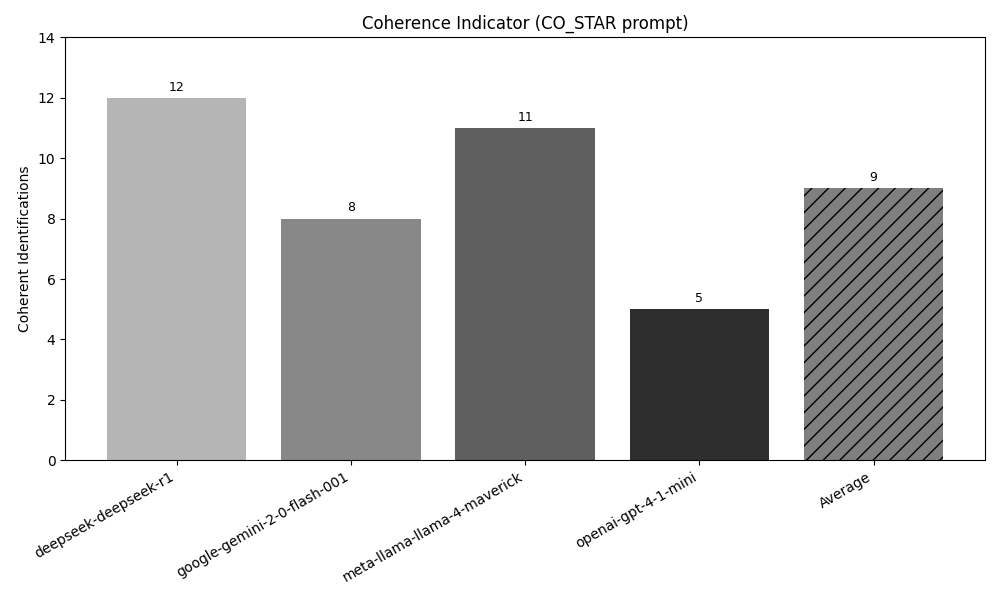
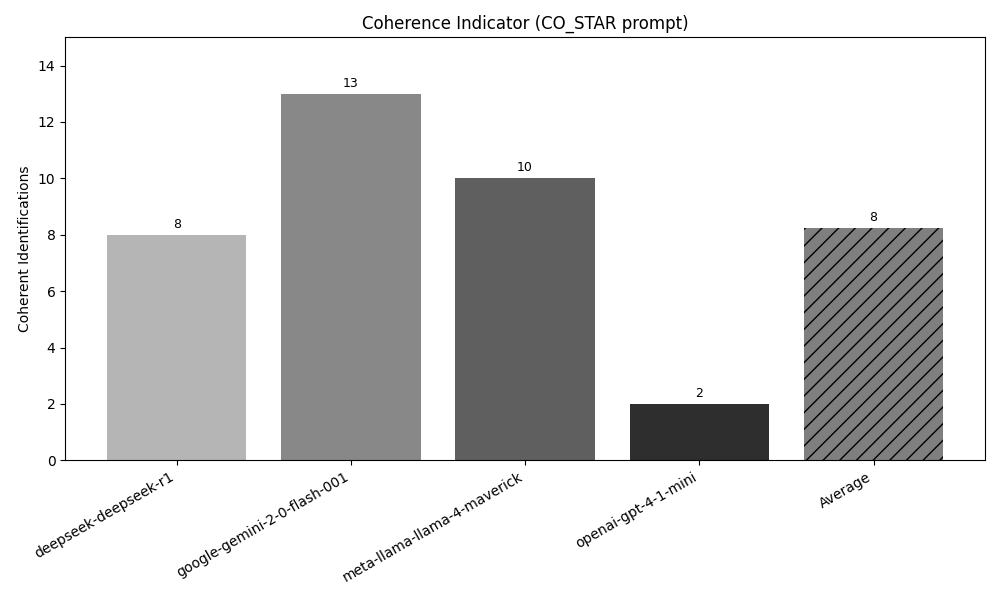
[results] co_star prompt (second test) validation + plots

diff --git a/whodunnit-llm/results_validation.py b/whodunnit-llm/results_validation.py
@@ -92,6 +92,13 @@ open_ai_guidelines_result_folders = [
     f'{RESULTS_PATH}openai-gpt-4-1-mini_open_ai_guidelines_format/',
 ]
 
+co_star_prompt_source_retrieval = [
+    f'{RESULTS_PATH}deepseek-deepseek-r1_co_star_prompt_source_retrieval/',
+    f'{RESULTS_PATH}google-gemini-2-0-flash-001_co_star_prompt_source_retrieval/',
+    f'{RESULTS_PATH}meta-llama-llama-4-maverick_co_star_prompt_source_retrieval/',
+    f'{RESULTS_PATH}openai-gpt-4-1-mini_co_star_prompt_source_retrieval/'
+]
+
 
 def validation(folder: str, plot_title: str, prompt_type: str):
     total_perpetrators = sum([len(', '.join(PERPETRATORS[k]).split(', ')) for k in PERPETRATORS.keys()])
@@ -101,7 +108,7 @@ def validation(folder: str, plot_title: str, prompt_type: str):
     for model_results in folder:
         total_perpetrators_identified = 0
 
-        model = re.match(pattern = r'.+\/(.+)_(co_star_prompt\/|open_ai_guidelines_format\/)', string = str(model_results)).group(1)
+        model = re.match(pattern = r'.+\/(.+)_(co_star_prompt\/|open_ai_guidelines_format\/|co_star_prompt_source_retrieval\/)', string = str(model_results)).group(1)
 
         for episode_filename in sorted(os.listdir(model_results)):
             ep_key = re.match(pattern = r'(s\d+e\d+).+', string = episode_filename).group(1)
@@ -135,5 +142,6 @@ def validation(folder: str, plot_title: str, prompt_type: str):
     plot_coherence_indicator(list(coherence_indicator.keys()), list(coherence_indicator.values()), f"Coherence Indicator {prompt_type}")
 
 if __name__ == '__main__':
-    validation(folder = co_star_prompt_result_folders, plot_title = "Perpetrators identified", prompt_type = '(CO_STAR prompt)')
-    validation(folder = open_ai_guidelines_result_folders, plot_title = "Perpetrators identified", prompt_type = '(OpenAI guidelines prompt)')
+    validation(folder = co_star_prompt_source_retrieval, plot_title = 'Perpetrators identified #2', prompt_type = '(CO_STAR prompt)')
+    # validation(folder = co_star_prompt_result_folders, plot_title = "Perpetrators identified", prompt_type = '(CO_STAR prompt)')
+    # validation(folder = open_ai_guidelines_result_folders, plot_title = "Perpetrators identified", prompt_type = '(OpenAI guidelines prompt)')

diff --git a/whodunnit-llm/source_retrieval_data.py b/whodunnit-llm/source_retrieval_data.py
@@ -48,9 +48,6 @@ def source_retrieval_data_extraction():
     source_types_retrieved: dict = {key: 0 for key in source_types}
     
     for model_folder in co_star_prompt_source_retrieval:
-        model = re.match(pattern = r'.+\/(deepseek|google|meta|openai)-(.+)_(co_star_prompt_source_retrieval\/)', string = model_folder).group(2)
-
-
         for episode_filename in os.listdir(model_folder):
             ep_key = re.match(pattern = r'(s\d+e\d+)__.+', string = episode_filename).group(1)
 
